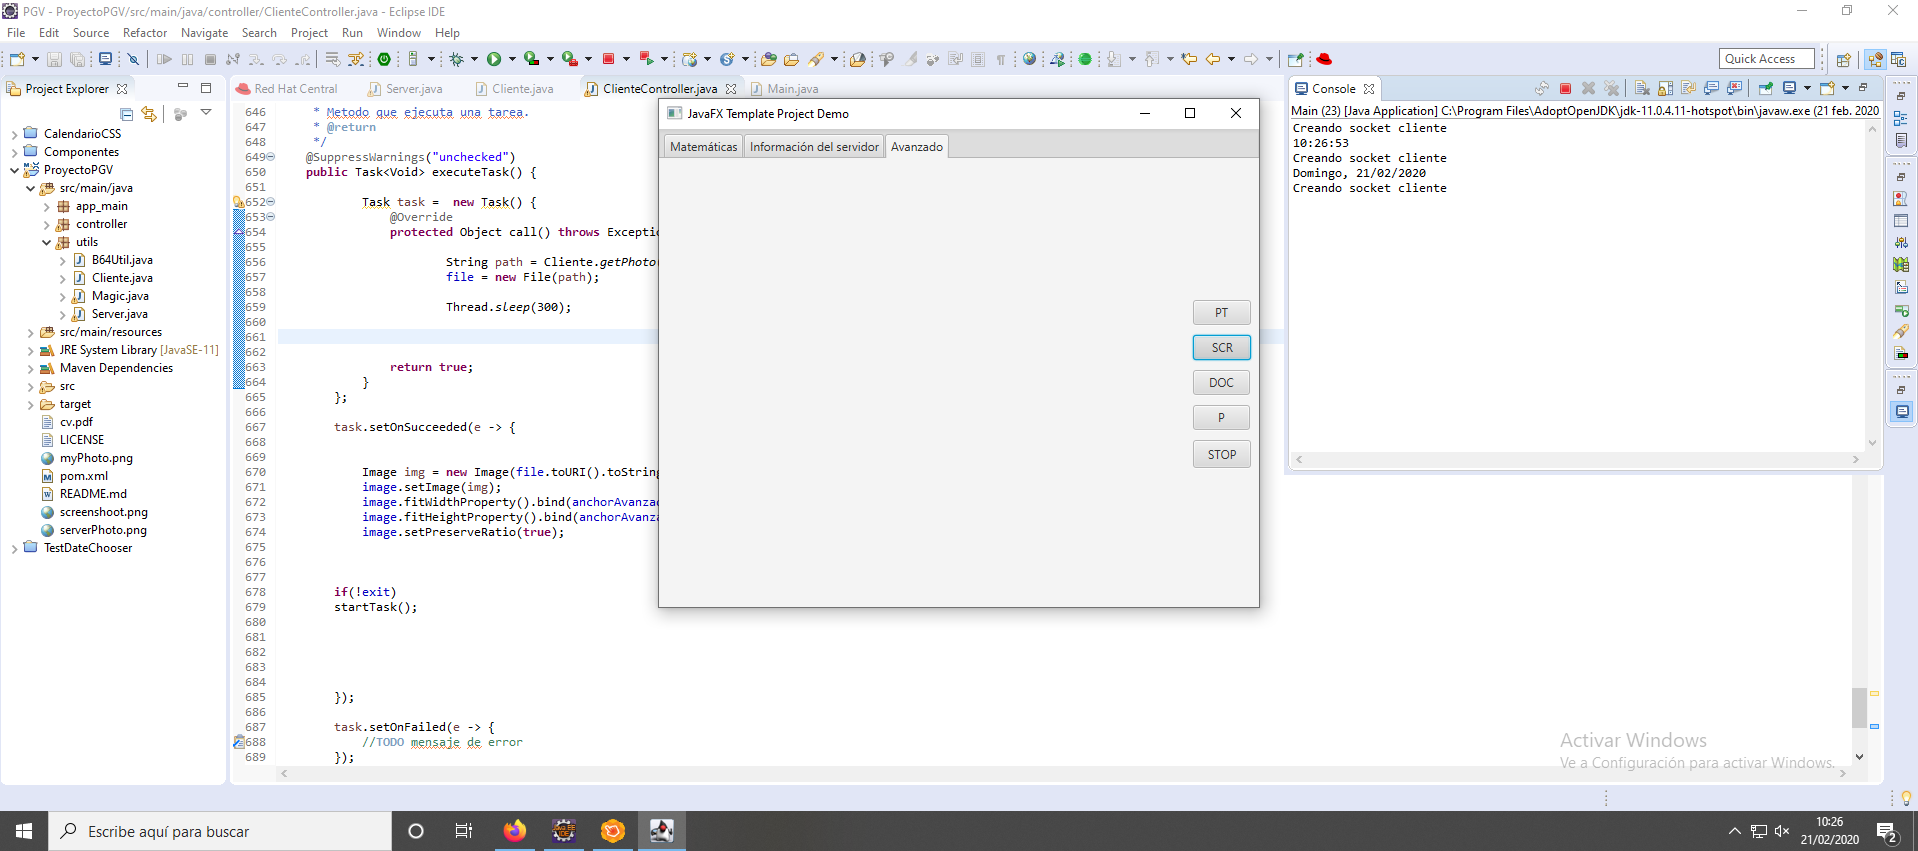
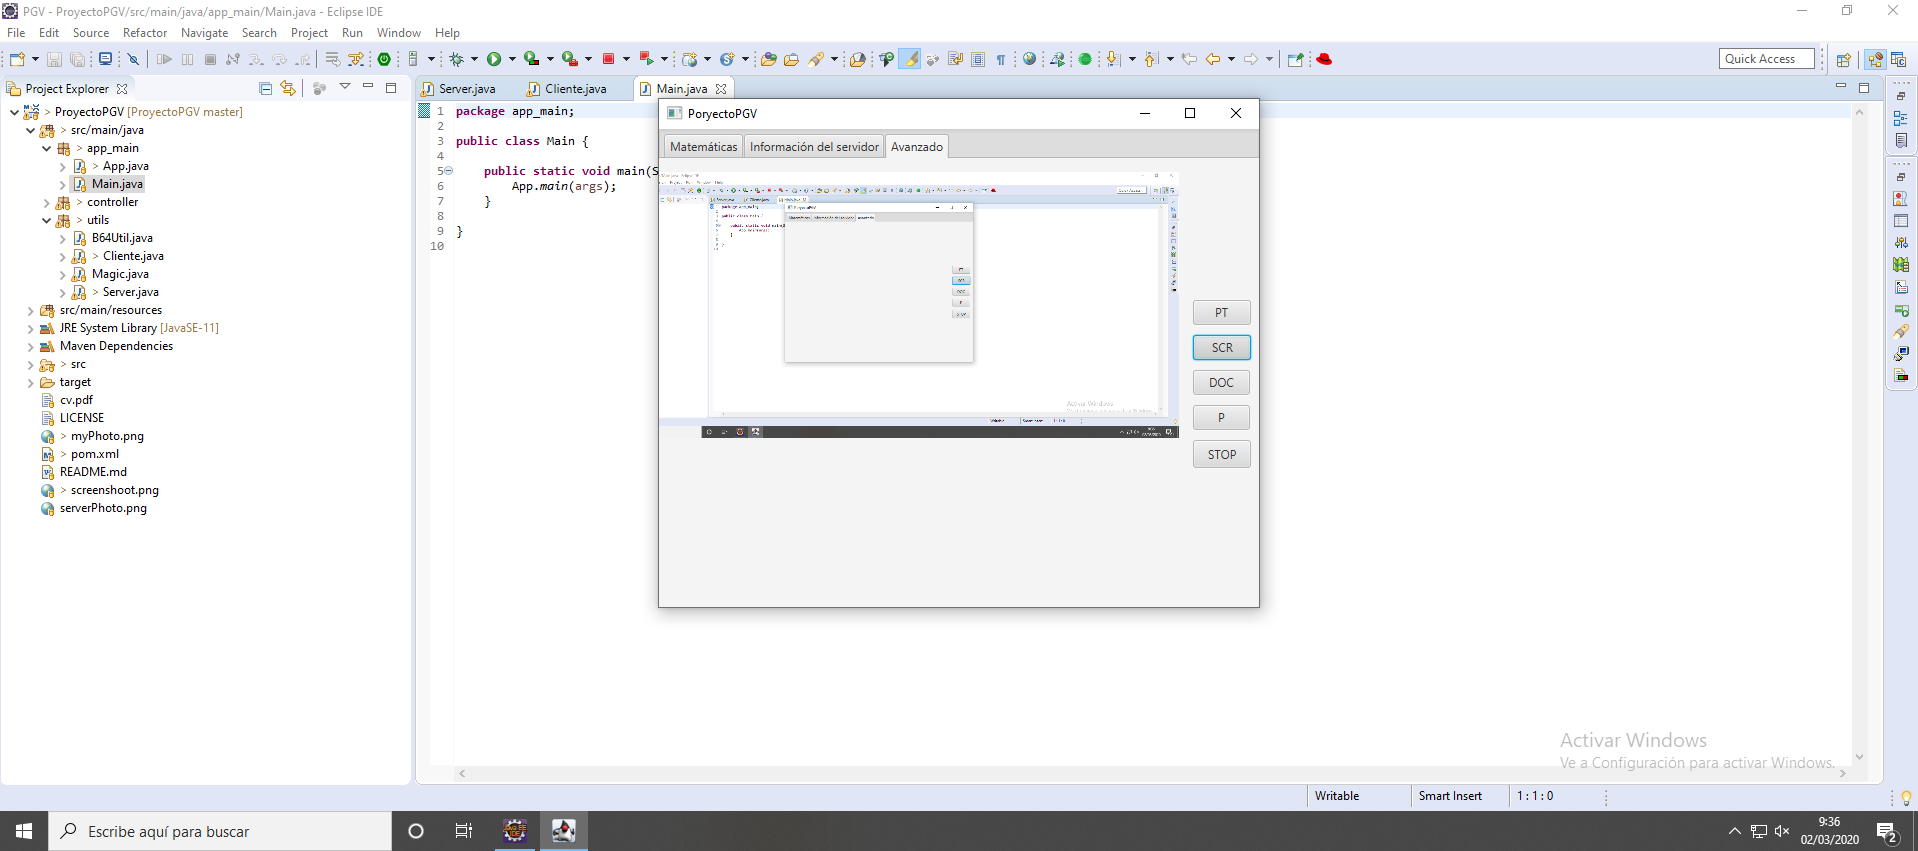
las commit

diff --git a/src/main/java/utils/Server.java b/src/main/java/utils/Server.java
@@ -75,7 +75,7 @@ public class Server extends Thread {
 
 			case 5:
 
-				//TODO RAIZ
+				response = raiz(a, b);
 				
 				break;
 
@@ -87,25 +87,26 @@ public class Server extends Thread {
 
 			case 7:
 
-				//TODO logaritmo
+				response = logaritmo(a, b);		
 				
 				break;
 
 			case 8:
 				
-				//TODO SIN
-
+				response = sin(a);
+				
 				break;
 
 			case 9:
 				
-				//TODO COS
+				response = cos(a);
 
 				break;
 
 			case 10:
 
-				//TODO TAG
+				response = tan(a);
+				
 				break;
 				
 			case 11:
@@ -318,6 +319,27 @@ public class Server extends Thread {
 		return "" + ((double) Math.pow(a, b));
 	}
 	
+	public static String raiz(double a, double b) {
+		return "" + (Math.pow(a, 1.0/b));
+	}
+	
+	public static String logaritmo(double a, double b) {
+		return "" + (Math.log10(a)/Math.log10(b));
+	}
+	
+	public static String sin(double a) {
+		return "50"+(Math.sin(a)) ;
+	}
+	
+	public static String cos(double a) {
+		return "" + Math.cos(a);
+	}
+	
+	public static String tan(double a) {
+		return "" + Math.tan(a);
+	}
+	
+	
 	
 	public static String computerName() {
 		
@@ -368,7 +390,7 @@ public class Server extends Thread {
 		return "" + space + "mb";
 	}
 	
-	
+
 	
 	
 

diff --git a/src/main/java/utils/Cliente.java b/src/main/java/utils/Cliente.java
@@ -16,9 +16,10 @@ public class Cliente {
 		
 		System.out.println("Creando socket cliente");
 
+		String kevin = "10.1.2.129";
 		InetAddress ip = InetAddress.getLocalHost();
 		int port = 4444;
-
+		
 		//Abir conexión
 		 socket = new Socket(ip, port);
 
@@ -178,6 +179,8 @@ public class Cliente {
 	
 	public static String SIN(double a) throws Exception {
 
+		open();
+		
 		Magic magic = new Magic(8, a, 0);
 		objectOutputStream.writeObject(magic);
 
@@ -187,6 +190,8 @@ public class Cliente {
 		objectOutputStream.close();
 
 		System.out.println(dato);
+		
+		socket.close();
 
 		return dato;
 

diff --git a/src/main/java/app_main/App.java b/src/main/java/app_main/App.java
@@ -17,7 +17,7 @@ public class App extends Application {
 		Scene escena = new Scene(controller.getRoot());
 		
 		primaryStage.setScene(escena);
-		primaryStage.setTitle("JavaFX Template Project Demo");
+		primaryStage.setTitle("PoryectoPGV");
 		primaryStage.show();
 	}
 

diff --git a/src/main/java/controller/ClienteController.java b/src/main/java/controller/ClienteController.java
@@ -368,6 +368,8 @@ public class ClienteController implements Initializable {
 
 		case 8:
 
+			System.out.println("PULSANDO");
+			
 			try {
 
 				Double a = Double.parseDouble(txtSINA.getText());
